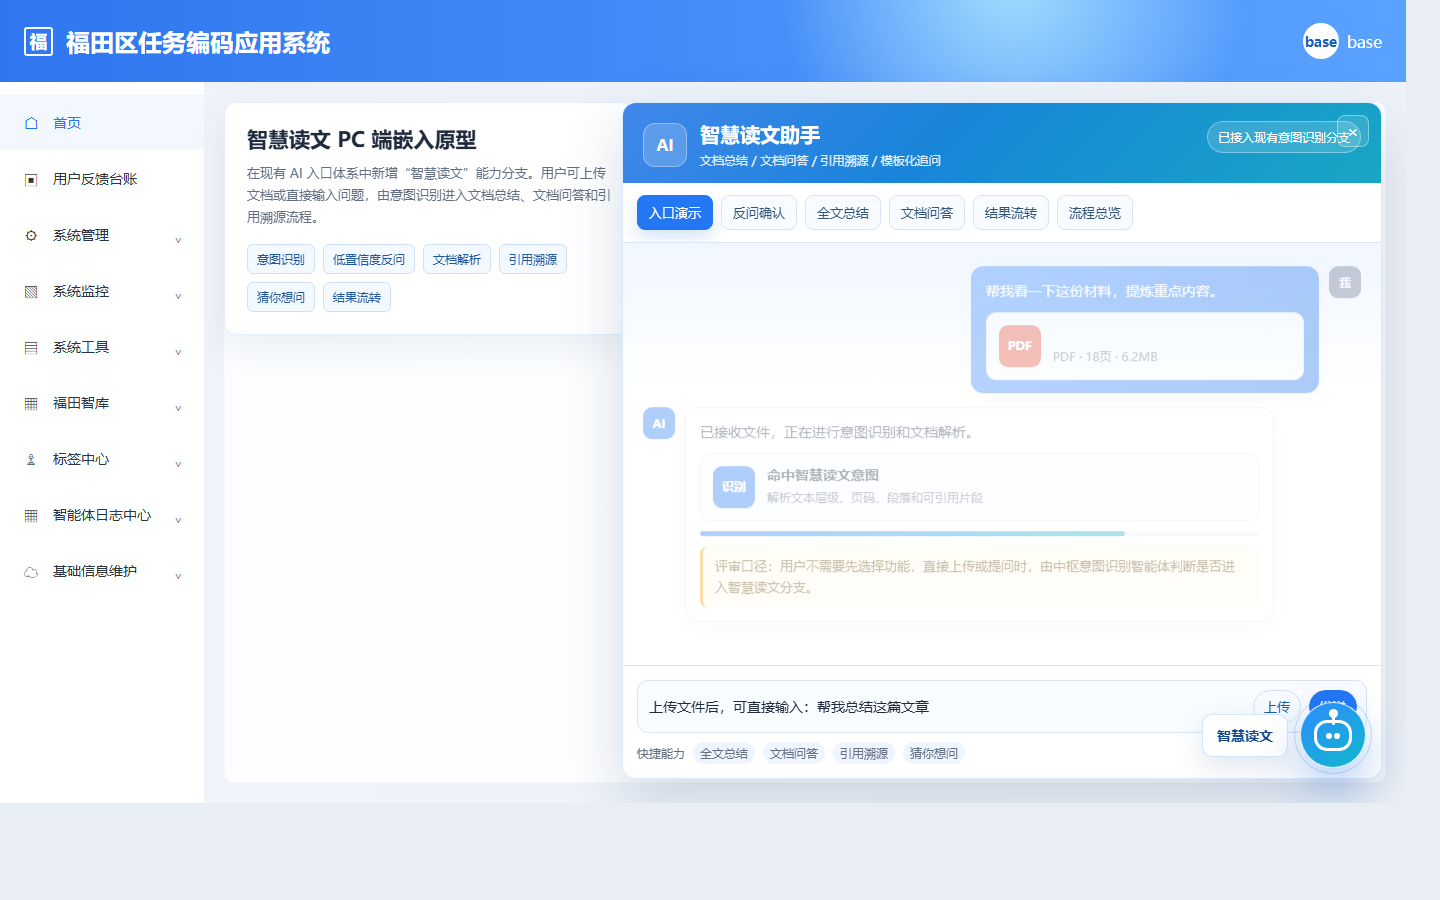
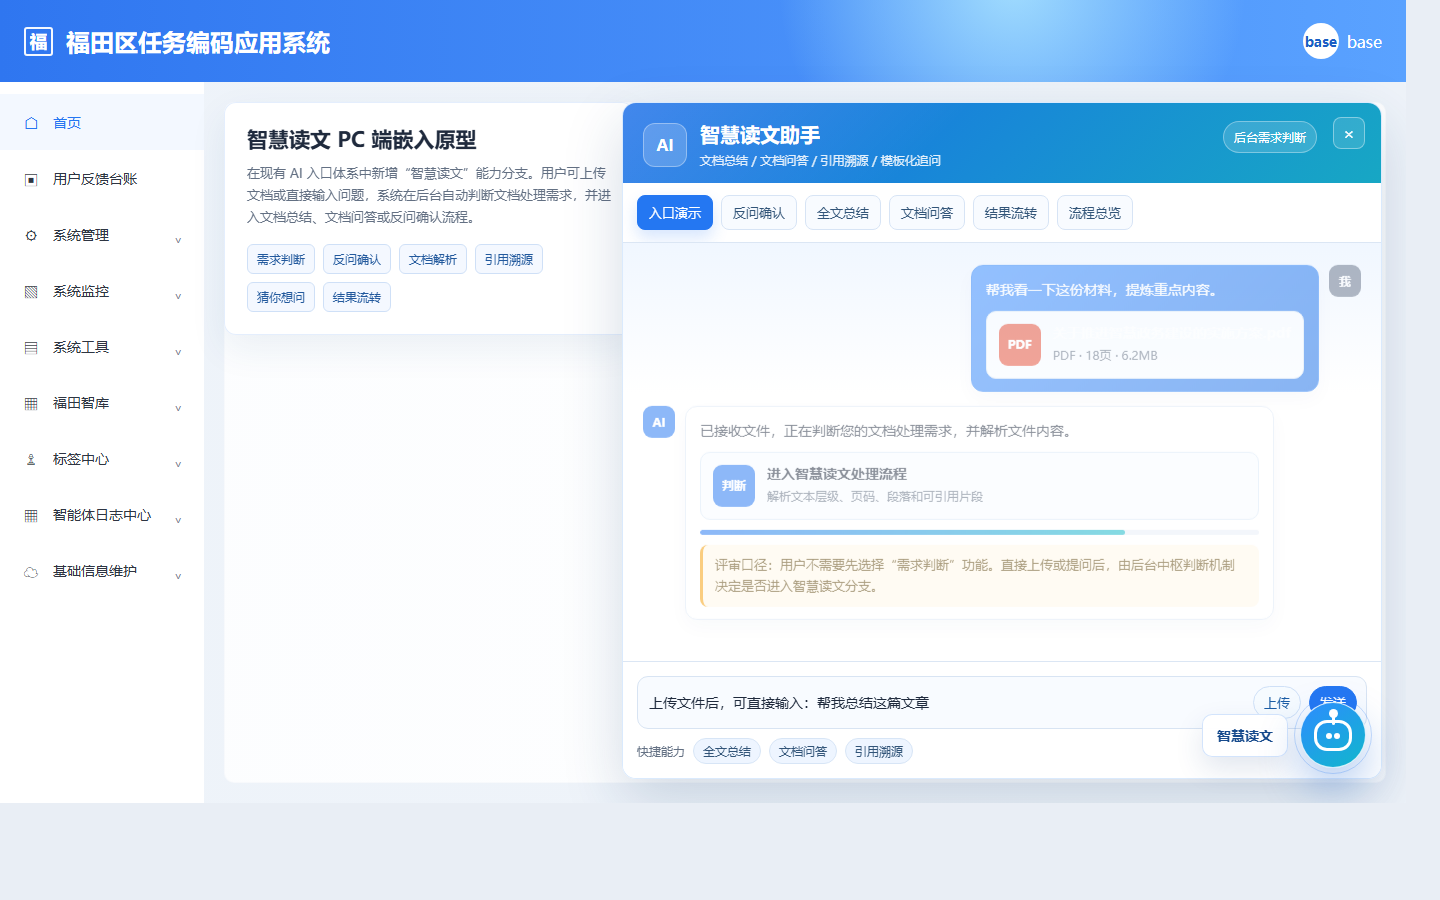
优化PC端智慧读文原型交互

diff --git a/PC_prototype/index.html b/PC_prototype/index.html
@@ -373,7 +373,7 @@
       display: flex;
       justify-content: space-between;
       gap: 18px;
-      padding: 18px 20px 15px;
+      padding: 18px 64px 15px 20px;
       color: #fff;
       background:
         linear-gradient(135deg, rgba(255,255,255,.18), transparent 42%),
@@ -412,6 +412,7 @@
 
     .status-pill {
       align-self: flex-start;
+      max-width: 132px;
       padding: 7px 10px;
       border: 1px solid rgba(255, 255, 255, .35);
       border-radius: 999px;
@@ -814,16 +815,30 @@
       font-size: 12px;
     }
 
-    .hotspots span {
-      padding: 3px 7px;
+    .hotspots button {
+      padding: 4px 9px;
+      border: 1px solid #d7e5f6;
       border-radius: 999px;
+      color: #315478;
       background: #eef5ff;
+      cursor: pointer;
+      font-size: 12px;
+      transition: .16s ease;
+    }
+
+    .hotspots button:hover,
+    .hotspots button:focus-visible {
+      border-color: var(--primary);
+      color: #fff;
+      background: var(--primary);
+      outline: none;
+      box-shadow: 0 6px 14px rgba(36, 119, 242, .18);
     }
 
     .close-panel {
       position: absolute;
-      top: 12px;
-      right: 12px;
+      top: 14px;
+      right: 16px;
       display: grid;
       width: 32px;
       height: 32px;
@@ -833,6 +848,7 @@
       color: #fff;
       background: rgba(255, 255, 255, .12);
       cursor: pointer;
+      z-index: 3;
     }
 
     .note {
@@ -930,10 +946,10 @@
 
     <section class="review-rail" aria-label="评审说明">
       <h1>智慧读文 PC 端嵌入原型</h1>
-      <p>在现有 AI 入口体系中新增“智慧读文”能力分支。用户可上传文档或直接输入问题，由意图识别进入文档总结、文档问答和引用溯源流程。</p>
+      <p>在现有 AI 入口体系中新增“智慧读文”能力分支。用户可上传文档或直接输入问题，系统在后台自动判断文档处理需求，并进入文档总结、文档问答或反问确认流程。</p>
       <div class="rail-tags">
-        <span>意图识别</span>
-        <span>低置信度反问</span>
+        <span>需求判断</span>
+        <span>反问确认</span>
         <span>文档解析</span>
         <span>引用溯源</span>
         <span>猜你想问</span>
@@ -959,7 +975,7 @@
             <p>文档总结 / 文档问答 / 引用溯源 / 模板化追问</p>
           </div>
         </div>
-        <div class="status-pill">已接入现有意图识别分支</div>
+        <div class="status-pill">后台需求判断</div>
       </header>
 
       <nav class="tabs" aria-label="原型状态切换">
@@ -990,16 +1006,16 @@
           <div class="message-row">
             <div class="avatar">AI</div>
             <div class="bubble">
-              已接收文件，正在进行意图识别和文档解析。
+              已接收文件，正在判断您的文档处理需求，并解析文件内容。
               <div class="file-card">
-                <div class="file-icon" style="background:#2477f2;">识别</div>
+                <div class="file-icon" style="background:#2477f2;">判断</div>
                 <div class="file-meta">
-                  <strong>命中智慧读文意图</strong>
+                  <strong>进入智慧读文处理流程</strong>
                   <span>解析文本层级、页码、段落和可引用片段</span>
                 </div>
               </div>
               <div class="progress"><i></i></div>
-              <div class="note">评审口径：用户不需要先选择功能，直接上传或提问时，由中枢意图识别智能体判断是否进入智慧读文分支。</div>
+              <div class="note">评审口径：用户不需要先选择“需求判断”功能。直接上传或提问后，由后台中枢判断机制决定是否进入智慧读文分支。</div>
             </div>
           </div>
         </section>
@@ -1021,7 +1037,7 @@
           <div class="message-row">
             <div class="avatar">AI</div>
             <div class="bubble">
-              检测到您上传了文件，但当前操作意图不够明确。请确认需要进行哪类处理：
+              检测到您上传了文件，但当前处理目标不够明确。请确认需要进行哪类处理：
               <div class="choice-grid">
                 <button class="choice-card" type="button" data-jump="summary">
                   <strong>全文总结</strong>
@@ -1122,7 +1138,7 @@
                 <button type="button">生成风险提示</button>
                 <button type="button">改写为汇报口径</button>
               </div>
-              <div class="note">伪多轮规则：点击按钮后，系统固定拼接“上一轮问题 + 回答摘要 + 引用片段 + 当前按钮意图”，生成下一轮 Prompt。</div>
+              <div class="note">伪多轮规则：点击按钮后，系统固定拼接“上一轮问题 + 回答摘要 + 引用片段 + 当前按钮目标”，生成下一轮 Prompt。</div>
             </div>
           </div>
         </section>
@@ -1175,8 +1191,8 @@
                 </div>
                 <div class="flow-step">
                   <b>2</b>
-                  <strong>意图识别</strong>
-                  <span>判断是否命中智慧读文分支。</span>
+                  <strong>需求判断</strong>
+                  <span>后台判断是否进入智慧读文分支及处理流程。</span>
                 </div>
                 <div class="flow-step">
                   <b>3</b>
@@ -1190,11 +1206,11 @@
                 </div>
                 <div class="flow-step">
                   <b>5</b>
-                  <strong>继续操作</strong>
-                  <span>猜你想问或流转到润色/编辑。</span>
+                  <strong>回答后追问</strong>
+                  <span>在每次回答后展示猜你想问，并支持流转到润色/编辑。</span>
                 </div>
               </div>
-              <div class="note">当意图识别置信度不足时，先触发反问确认，再进入对应流程。</div>
+              <div class="note">当文档处理目标不明确时，先触发反问确认，再进入对应流程。</div>
             </div>
           </div>
         </section>
@@ -1210,10 +1226,9 @@
         </div>
         <div class="hotspots">
           快捷能力
-          <span>全文总结</span>
-          <span>文档问答</span>
-          <span>引用溯源</span>
-          <span>猜你想问</span>
+          <button type="button" data-jump="summary">全文总结</button>
+          <button type="button" data-jump="qa">文档问答</button>
+          <button type="button" data-jump="qa">引用溯源</button>
         </div>
       </footer>
     </section>

diff --git a/docs/plans/2026-04-28-pc-prototype-demand-judgement.md b/docs/plans/2026-04-28-pc-prototype-demand-judgement.md
@@ -1,0 +1,32 @@
+# PC Prototype Demand Judgement Implementation Plan
+
+> **For Claude:** REQUIRED SUB-SKILL: Use superpowers:executing-plans to implement this plan task-by-task.
+
+**Goal:** Align the PC wisdom-reading prototype with the PRD position that intent recognition is a background judgement mechanism, not a user-facing function.
+
+**Architecture:** Keep the existing single-file static HTML prototype. Update copy and labels in `PC_prototype/index.html`, then regenerate the review screenshot.
+
+**Tech Stack:** Plain HTML, CSS, and JavaScript.
+
+---
+
+### Task 1: Update User-Facing Copy
+
+**Files:**
+- Modify: `PC_prototype/index.html`
+
+**Steps:**
+1. Replace user-facing “意图识别/低置信度/意图不明确” wording with “自动判断处理需求/处理目标不明确/反问确认”.
+2. Keep “中枢意图识别智能体” only where it clearly describes backend collaboration.
+3. Update review rail tags, panel status, upload guide, clarify screen, QA note, and flow overview.
+
+### Task 2: Verify Prototype
+
+**Files:**
+- Verify: `PC_prototype/index.html`
+- Update screenshot: `PC_prototype/prototype-check-clean.png`
+
+**Steps:**
+1. Search the HTML for obsolete user-facing terms.
+2. Generate a fresh Edge headless screenshot.
+3. Inspect the screenshot for layout regressions.
